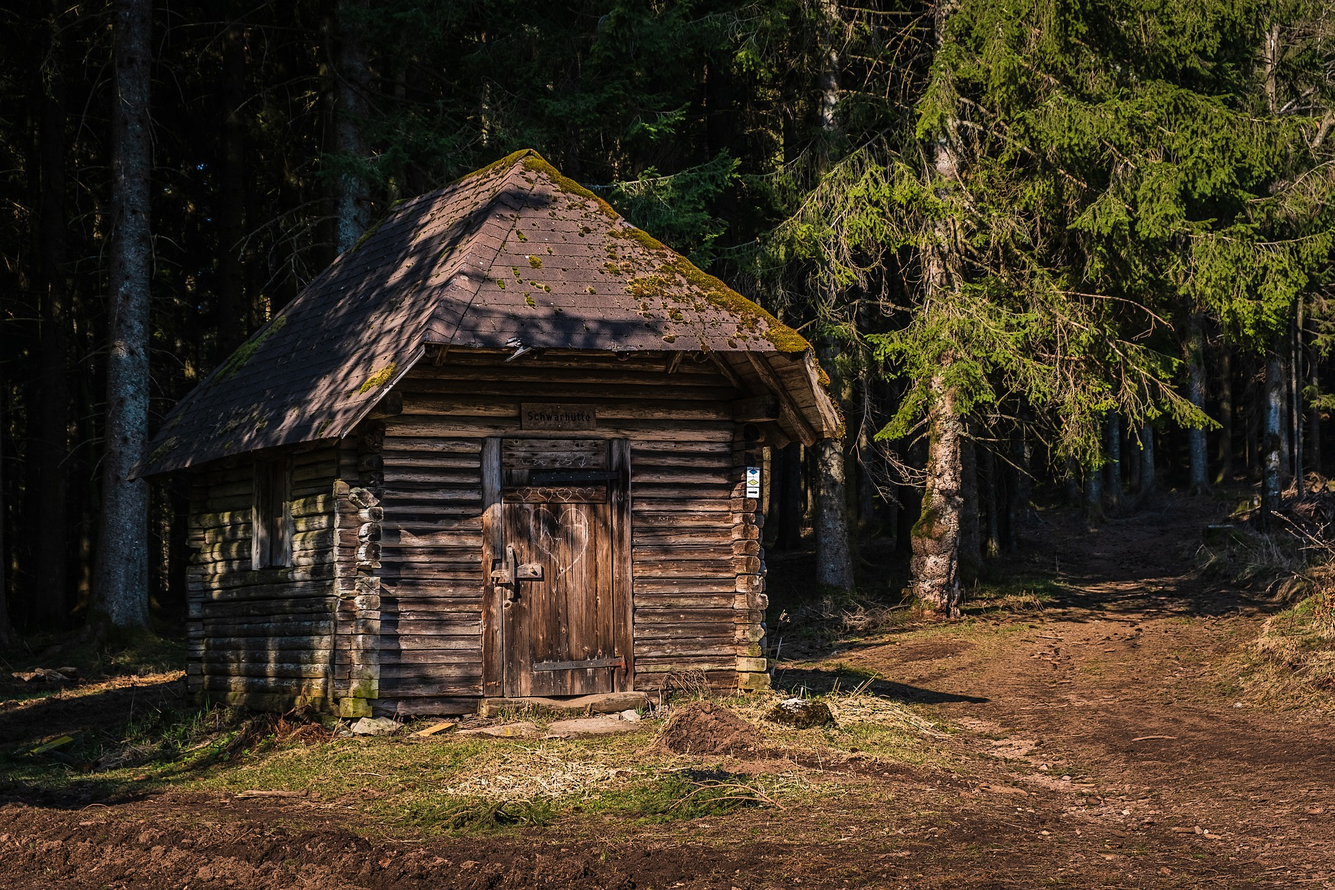
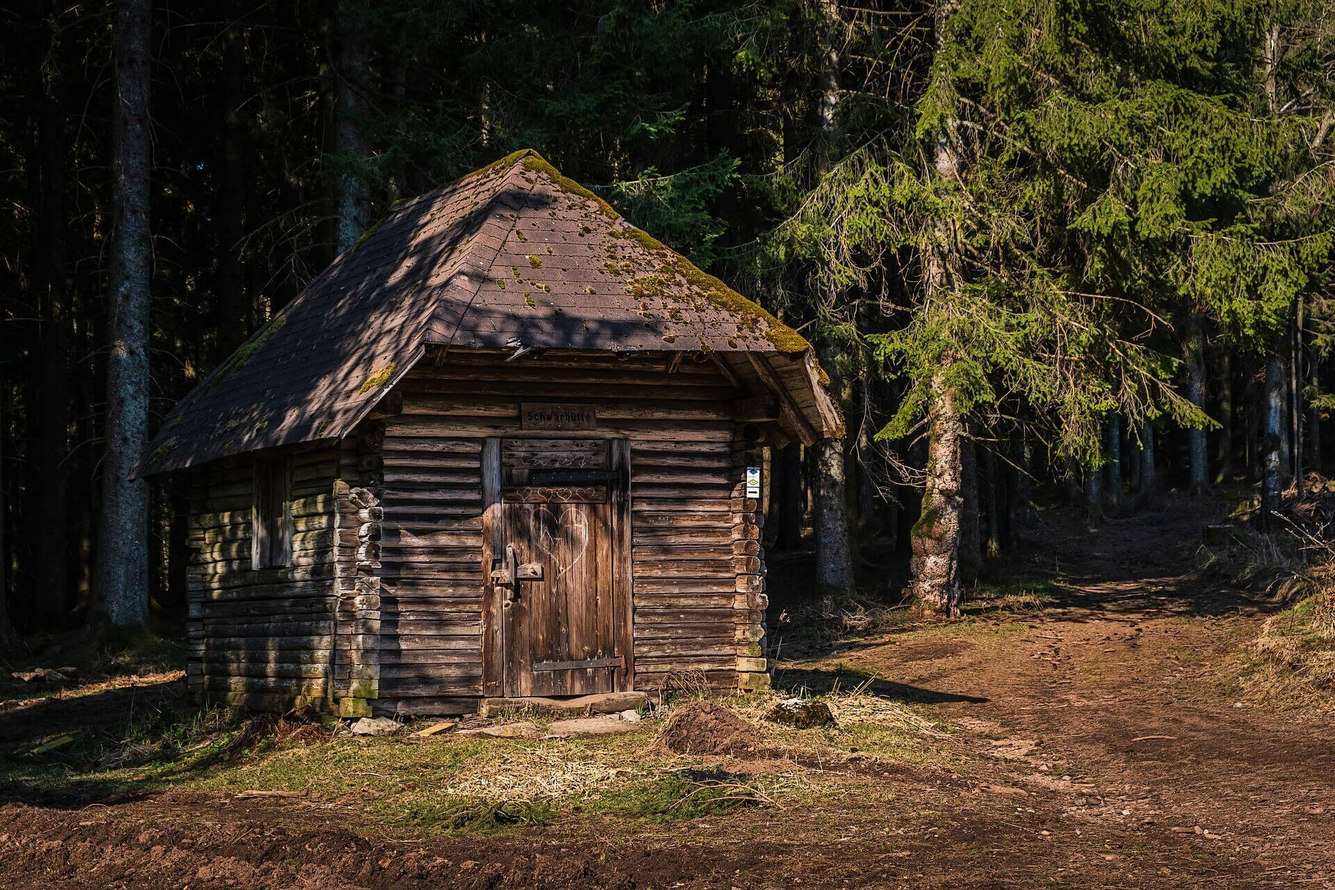
Optimize images

diff --git a/style.css b/style.css
@@ -116,7 +116,7 @@ form input, form textarea, form select {
 }
 
 #splash { /* used on home page */
-    background-image: url(images/home2.jpg);
+    background-image: url(images/home.jpg);
     background-repeat: no-repeat;
     background-size: cover;
     background-position: top;
@@ -219,12 +219,12 @@ aside h3 {
 
 @media only screen and (max-width: 768px) {
     header {
-        height: 48px;
+        height: 50px;
     }
     header h1 {
         font-size: 150%;
         background-color: rgba(0, 0, 0, .5); /* semitransparent overlay */
-        line-height: 48px;
+        line-height: 50px;
         width: 100%;
         text-indent: 10px;
         margin: 0;
@@ -254,8 +254,8 @@ aside h3 {
         background-color: black;
         font-size: 200%;
         border-radius: 5px;
-        width: 48px;
-        line-height: 48px;
+        width: 50px;
+        line-height: 50px;
         text-align: center;
         vertical-align: middle;
     }

diff --git a/gallery.html b/gallery.html
@@ -47,7 +47,7 @@
                     <figcaption>Shelter from the rain is provided with our Superior package.</figcaption>
                 </figure>
                 <figure>
-                    <a href="images/bear.gif"><img src="images/bear.gif" alt="Photo animation of black bear"></a>
+                    <a href="images/bear.jpg"><img src="images/bear.jpg" alt="Photo animation of black bear"></a>
                     <figcaption>We have quite a lot of bears like this that <a href="http://www.bearsmart.com/about-bears/food-diet/" target="_blank">probably won't eat your child</a>.</figcaption>
                 </figure>
             </div>
